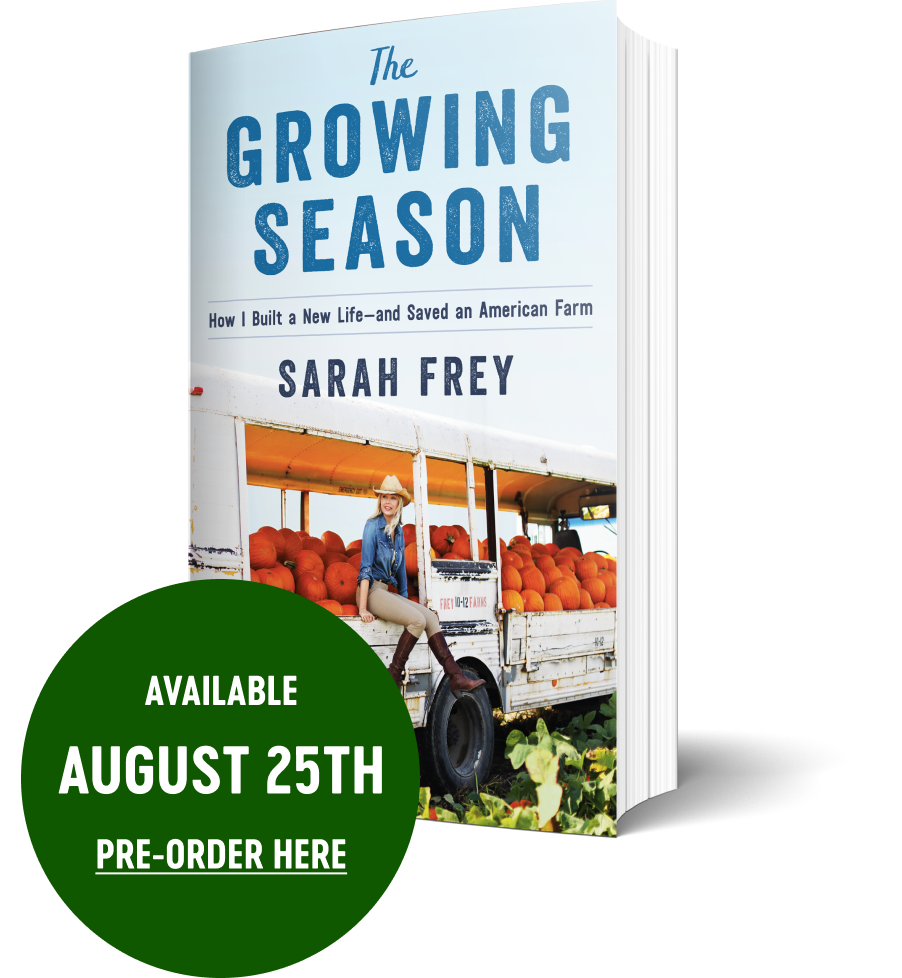
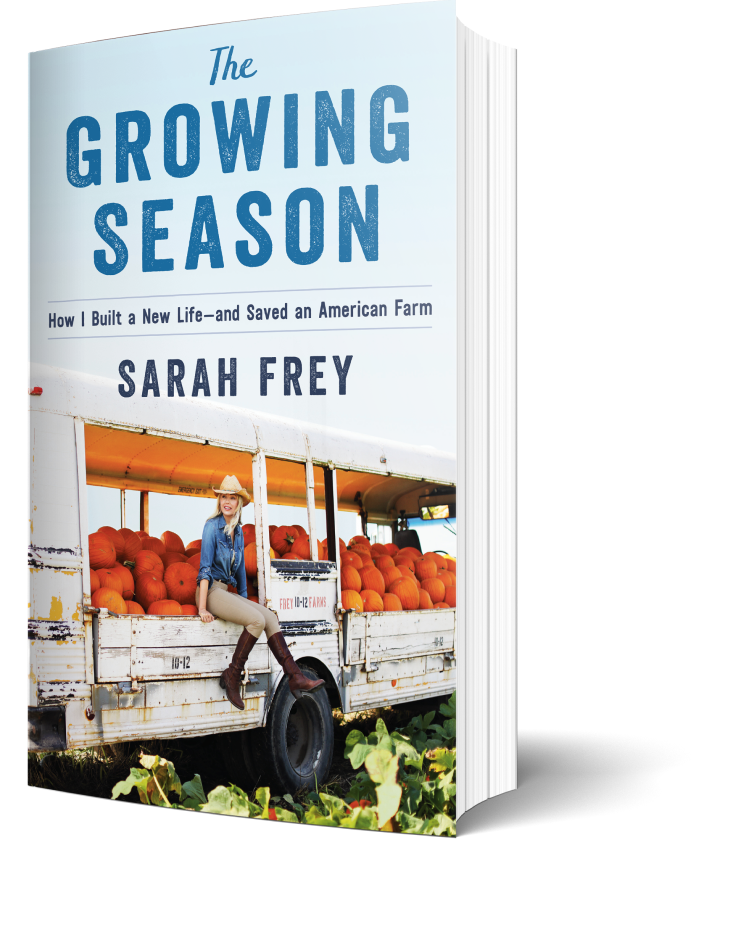
updating for after launch

diff --git a/src/components/pre-order-section.js b/src/components/pre-order-section.js
@@ -44,7 +44,7 @@ export default () => (
       render={data => (
         <Wrap id="prepurhcase">
         <Container>
-            <H2 textAlign="center">PRE-ORDER YOUR COPY AT...</H2>
+            <H2 textAlign="center">FIND A COPY AT...</H2>
             
             <Flexbox>
                 
